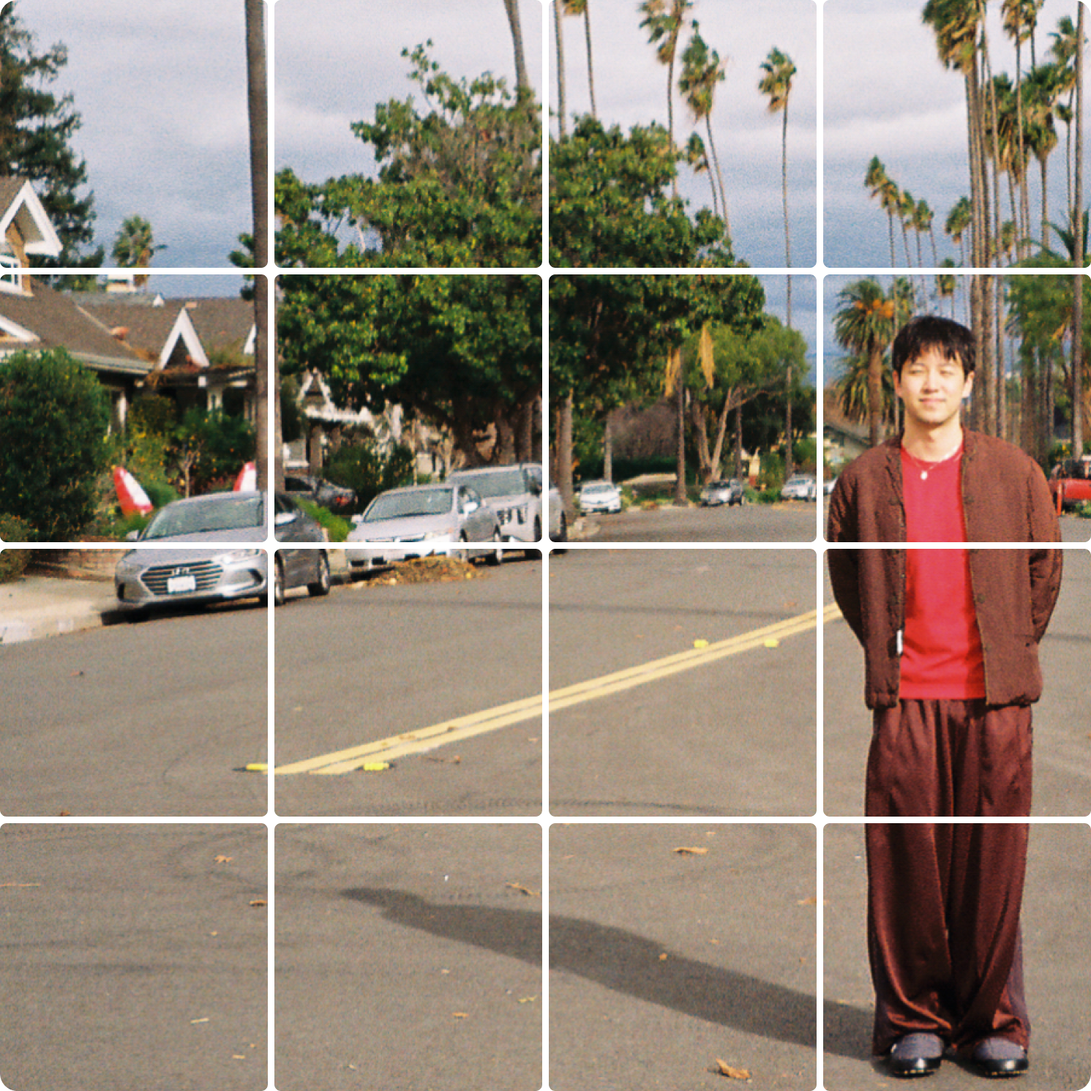
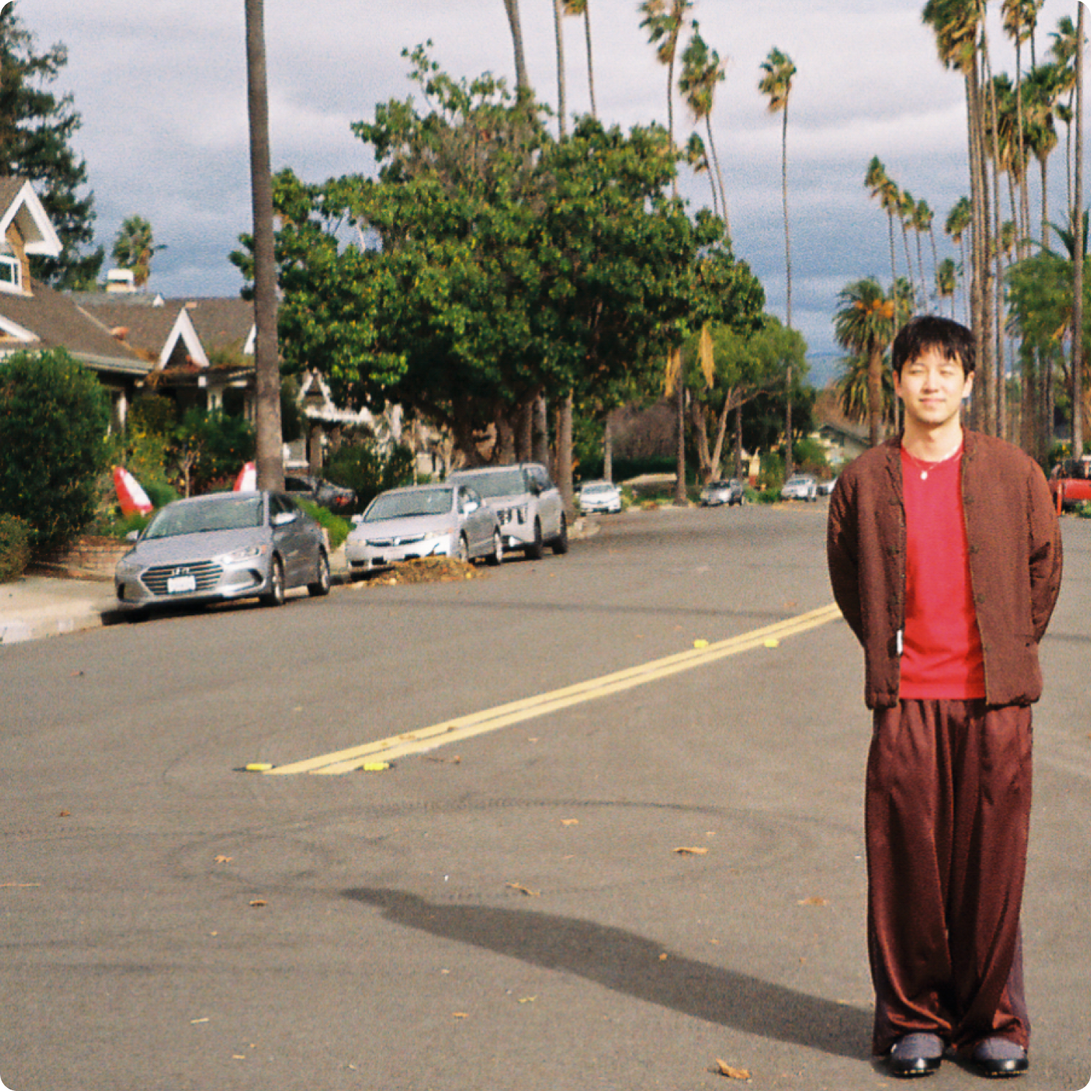
taiga jean

Changed region(s): [[0.0, 0.0, 1.0, 1.0]]

diff --git a/static/p5/grid.js b/static/p5/grid.js
@@ -22,16 +22,20 @@ const CAPTCHA_CHALLENGES = [
     caption: 'Kapital Twill 1st Jacket',
     solution: [0, 0, 0, 0, 0, 1, 1, 1, 0, 1, 1, 1, 0, 1, 1, 1],
     baseImage: '/p5/assets/kapital_jacket_base.png',
-    solvedImage: '/p5/assets/kapital_jacket_solved.png',
     submittedBy: 'admin'
   },
-  // Add more challenges here:
   {
     id: 'cdg_red',
     caption: 'COMME des GARCONS Homme Plus Red Panelled T-Shirt',
     solution: [0, 0, 0, 0, 0, 0, 0, 1, 0, 0, 0, 1, 0, 0, 0, 0],
     baseImage: '/p5/assets/cdg_red_base.png',
-    solvedImage: '/p5/assets/cdg_red_solved.png',
+    submittedBy: 'user123'
+  },
+  { 
+    id: 'taiga_jean',
+    caption: 'Taiga Takahashi Lot. 704 Denim Trousers C. 1920\'s - Raw Indigo',
+    solution: [0, 0, 0, 0, 0, 1, 1, 0, 0, 1, 1, 0, 0, 1, 1, 0],
+    baseImage: '/p5/assets/taiga_jean_base.png',
     submittedBy: 'user123'
   },
 ];
@@ -55,6 +59,7 @@ let selected;
 let caption = '';
 let submittedBy = '';
 let base_img;
+let before_img;
 let after_img;
 
 // === PRELOAD ASSETS ===
@@ -62,7 +67,8 @@ function preload() {
   // Select a random challenge
   currentChallenge = CAPTCHA_CHALLENGES[Math.floor(Math.random() * CAPTCHA_CHALLENGES.length)];
   base_img = loadImage(currentChallenge.baseImage);
-  after_img = loadImage(currentChallenge.solvedImage);
+  before_img = loadImage('p5/assets/grid_overlay.png');
+  after_img = loadImage('p5/assets/grid_success.png');
 }
 
 // === SETUP ===
@@ -112,16 +118,17 @@ function drawCaptchaChallenge() {
 
 function drawCells() {
   image(base_img, MARGIN, MARGIN, FRAME_WIDTH, FRAME_HEIGHT);
+  image(before_img, MARGIN, MARGIN, FRAME_WIDTH, FRAME_HEIGHT);
 }
 
 function drawSelectedCells() {
   noStroke();
-  fill(255, 255, 255, 50);
+  fill(239, 230, 230, 50);
   for (let i = 0; i < 16; i++) {
     if (selected[i]) {
       let x = MARGIN + (i % 4) * (CELL_SIZE + CELL_DIST);
       let y = MARGIN + Math.floor(i / 4) * (CELL_SIZE + CELL_DIST);
-      rect(x, y, CELL_SIZE, CELL_SIZE);
+      rect(x, y, CELL_SIZE + 1, CELL_SIZE + 1);
     }
   }
 }
@@ -132,6 +139,7 @@ function drawSuccessState() {
 
   push();
   tint(255, opacity);
+  image(base_img, MARGIN, MARGIN, FRAME_WIDTH, FRAME_HEIGHT);
   image(after_img, MARGIN, MARGIN, FRAME_WIDTH, FRAME_HEIGHT);
   pop();
 }
@@ -150,7 +158,7 @@ function drawFrame() {
   drawingContext.beginPath();
   drawingContext.roundRect(width / 2 - FRAME_WIDTH / 2, height / 2 - FRAME_HEIGHT / 2, FRAME_WIDTH, FRAME_HEIGHT, ROUNDNESS);
   drawingContext.clip();
-  image(before_img, width / 2 - FRAME_WIDTH / 2, height / 2 - FRAME_HEIGHT / 2, FRAME_WIDTH, FRAME_HEIGHT);
+  image(base_img, width / 2 - FRAME_WIDTH / 2, height / 2 - FRAME_HEIGHT / 2, FRAME_WIDTH, FRAME_HEIGHT);
   drawingContext.restore();
   pop();
   return true;
